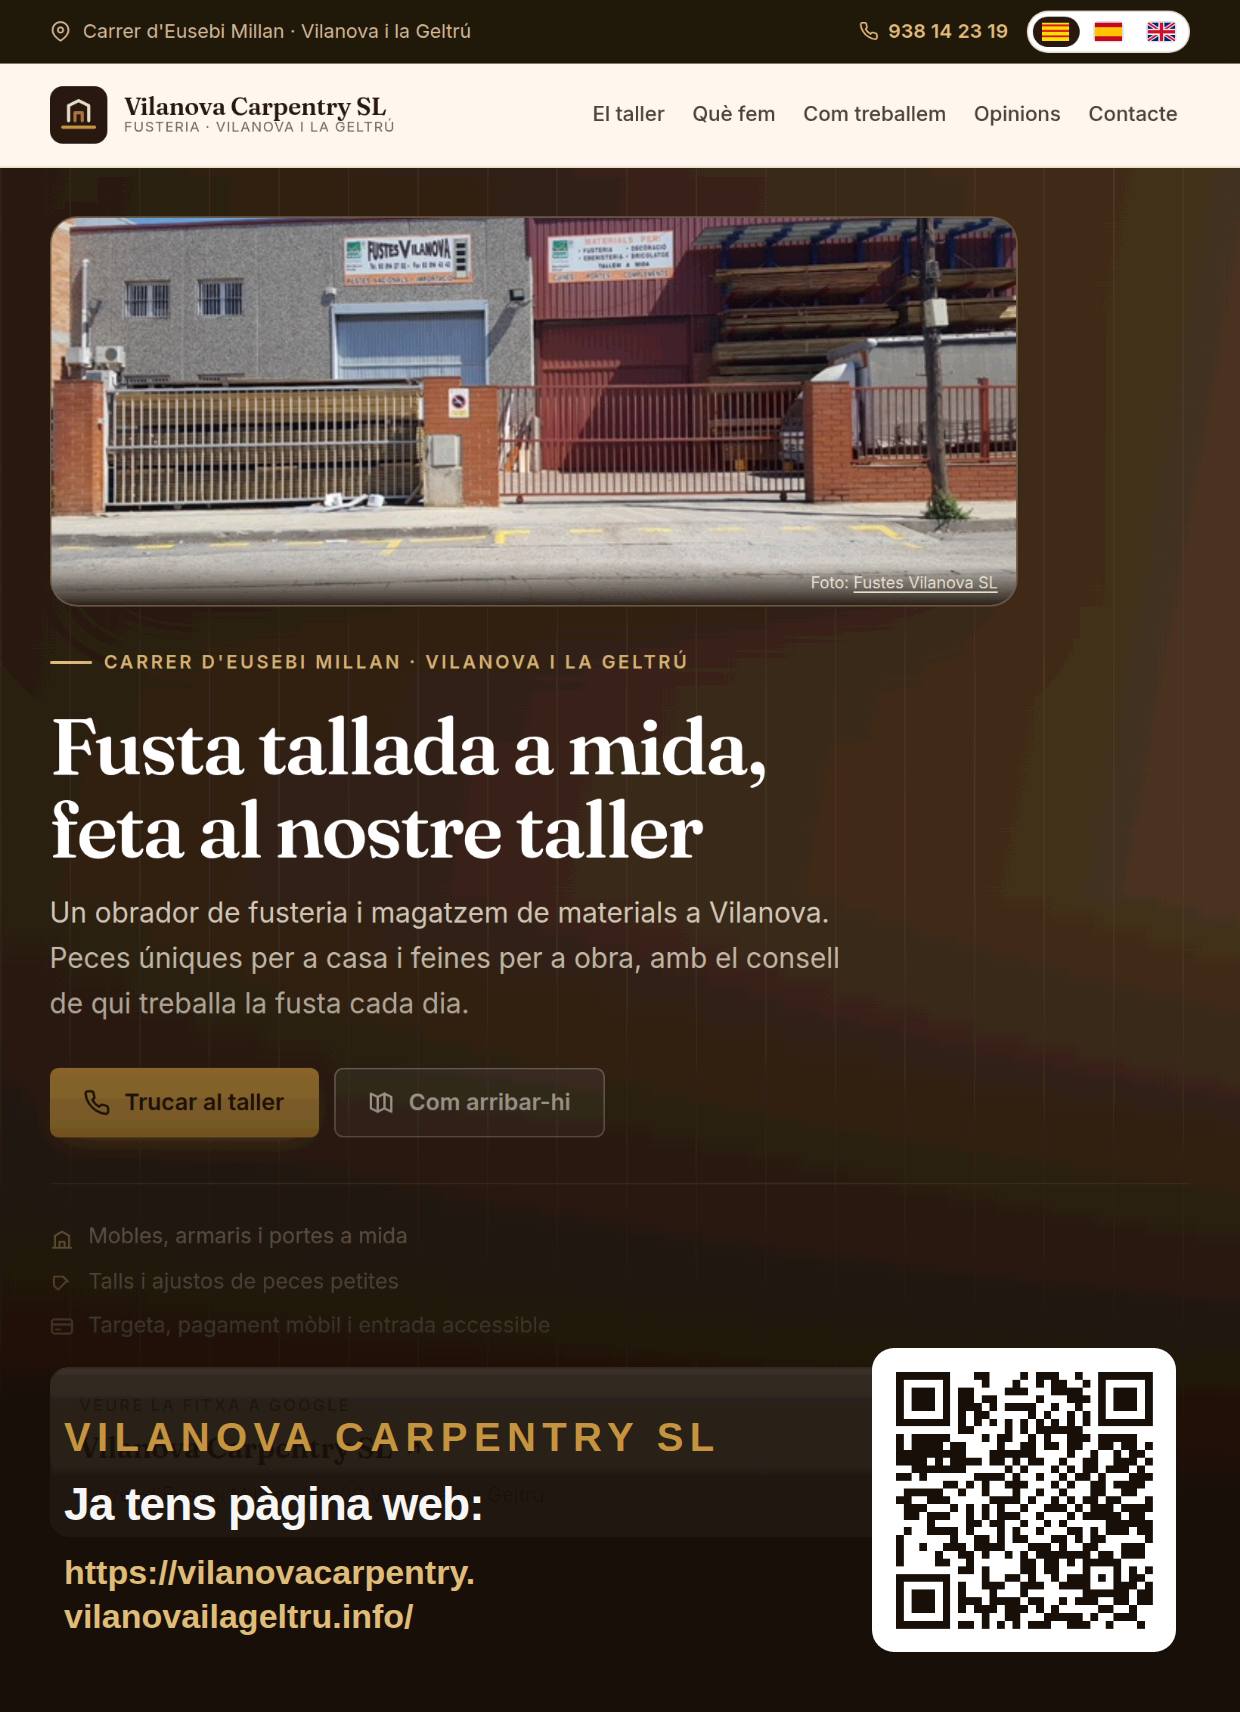
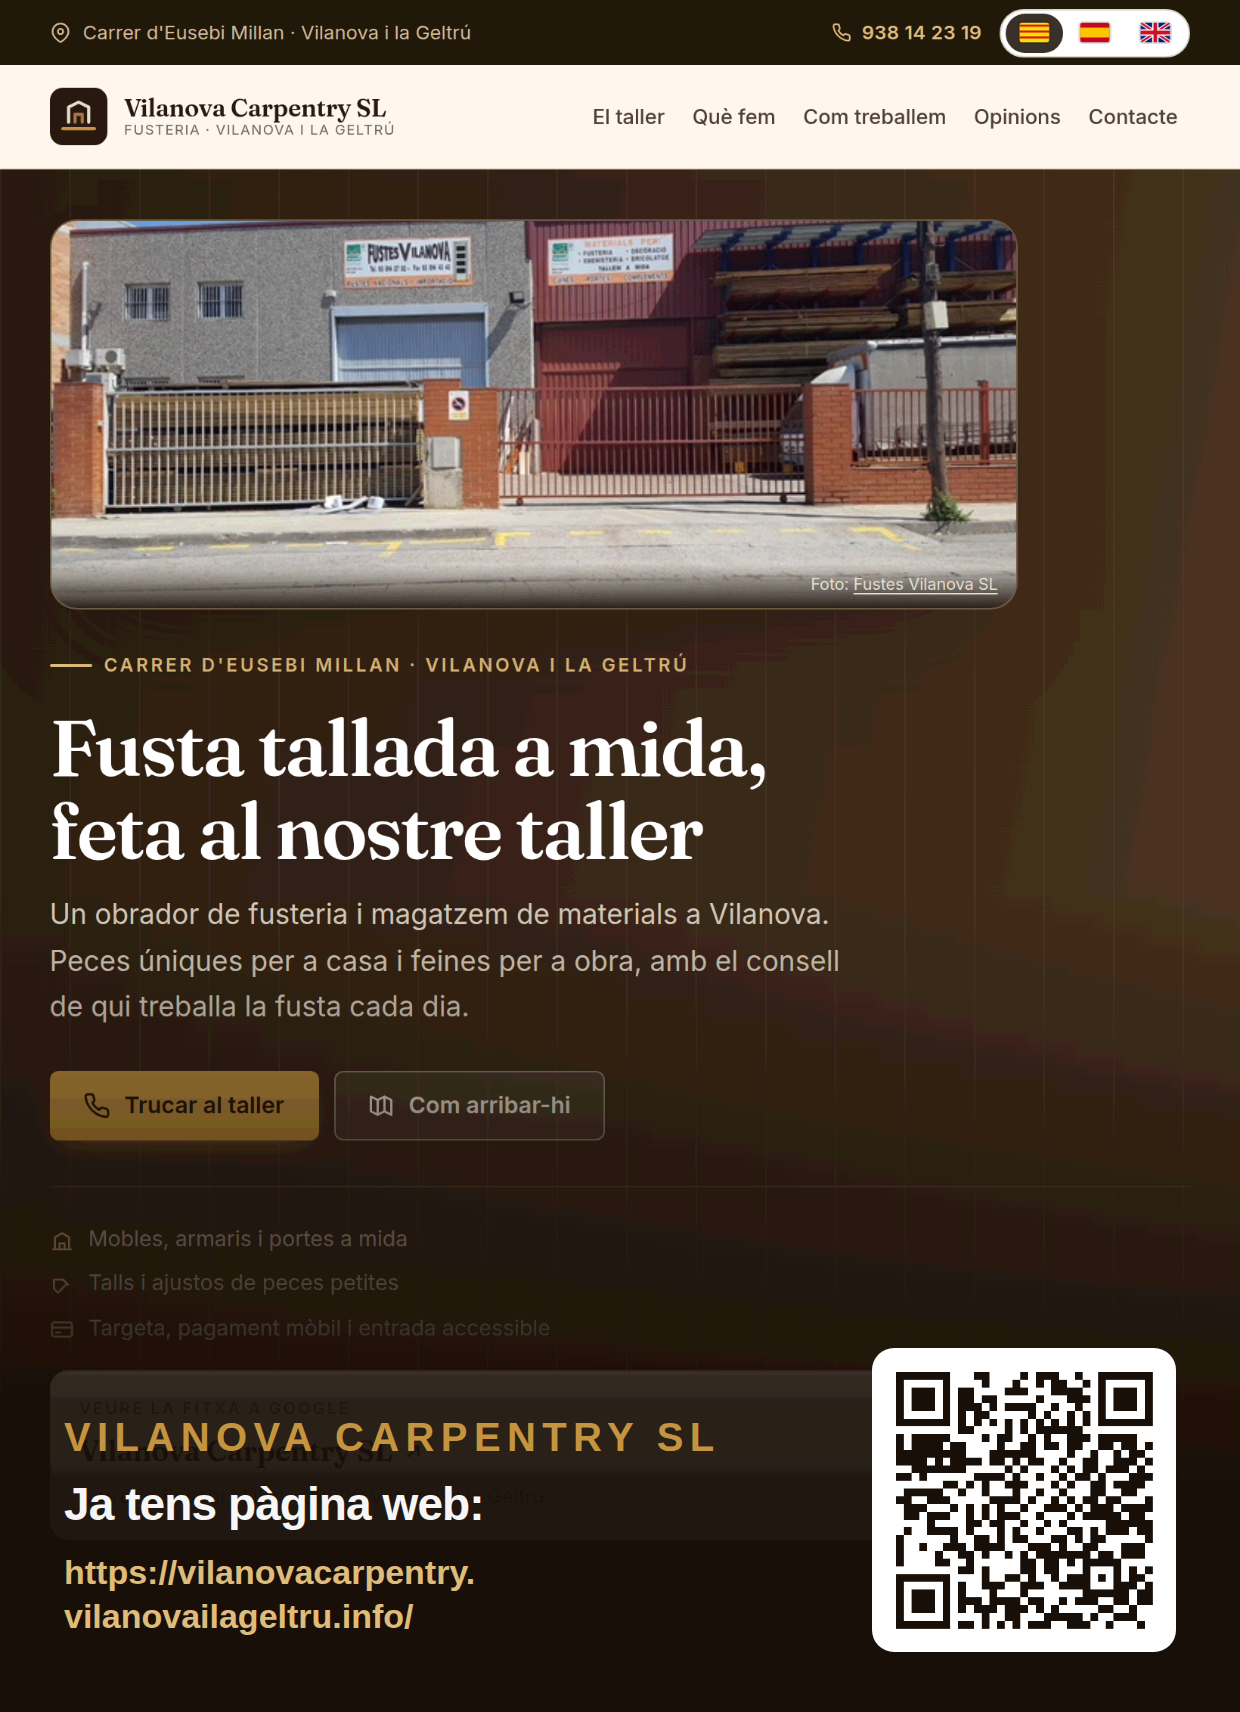
One canonical language toolbar and README across the fleet

diff --git a/assets/css/styles.css b/assets/css/styles.css
@@ -327,41 +327,6 @@ ul, ol { margin: 0; padding: 0; list-style: none; }
 .nav-toggle:hover { background: var(--paper-200); }
 
 /* ---------- language switch ---------- */
-.langs {
-  display: flex;
-  align-items: center;
-  gap: .2rem;
-  padding: .18rem;
-  border: 1px solid rgba(211, 186, 149, .5);
-  border-radius: 999px;
-  background: #fff;
-}
-.langs__link {
-  display: inline-flex;
-  align-items: center;
-  gap: .35rem;
-  padding: .28rem .5rem;
-  border-radius: 999px;
-  text-decoration: none;
-  font-size: .76rem;
-  font-weight: 600;
-  color: var(--ink-soft);
-  line-height: 1;
-}
-.langs__link:hover { background: var(--paper-200); color: var(--wood-900); }
-.langs__link[aria-current="true"] {
-  background: var(--wood-900);
-  color: #fff;
-}
-.langs__flag {
-  width: 18px;
-  height: 12px;
-  border-radius: 2px;
-  flex: none;
-  box-shadow: 0 0 0 1px rgba(33, 21, 12, .15);
-  display: block;
-}
-.langs__code { text-transform: uppercase; letter-spacing: .04em; }
 
 /* ---------- buttons ---------- */
 .btn {
@@ -1233,4 +1198,90 @@ ul, ol { margin: 0; padding: 0; list-style: none; }
   .reviews__all, .footer__legal { display: none !important; }
   .hero, .section--timber, .footer { background: #fff !important; color: #000 !important; }
   .reveal { opacity: 1 !important; transform: none !important; }
+}
+
+/* ==========================================================================
+   Language switch — the one canonical toolbar used by every site.
+   Change only the four custom properties at the top; never re-implement it.
+
+   Why it is written this way:
+   - a fixed 20x13 box with overflow:hidden, so a flag can never bleed out of
+     its pill (the inner SVG has no width/height of its own);
+   - the code label is always present, which keeps every pill the same width and
+     stops the narrow flags-only variant from looking misaligned;
+   - the active pill uses its own background, never a border, so no 1px seam
+     appears between adjacent pills;
+   - height is fixed, so the toolbar aligns with the phone button beside it.
+   ========================================================================== */
+
+.langs {
+  --langs-bg: #ffffff;
+  --langs-border: #dcd3c4;
+  --langs-ink: #4a423a;
+  --langs-active-bg: #3b3128;
+  --langs-active-ink: #ffffff;
+
+  display: inline-flex;
+  align-items: center;
+  gap: 2px;
+  height: 32px;
+  padding: 0 3px;
+  border: 1px solid var(--langs-border);
+  border-radius: 999px;
+  background: var(--langs-bg);
+  box-sizing: border-box;
+}
+
+.langs__link {
+  display: inline-flex;
+  align-items: center;
+  justify-content: center;
+  gap: 6px;
+  height: 26px;
+  padding: 0 9px;
+  border-radius: 999px;
+  text-decoration: none;
+  line-height: 1;
+  color: var(--langs-ink);
+  /* A hairline of the same colour as the background prevents the sub-pixel
+     seam some browsers draw between adjacent rounded pills. */
+  transition: background-color .15s ease, color .15s ease;
+}
+.langs__link:hover { background: rgba(0, 0, 0, .06); }
+.langs__link[aria-current="true"] {
+  background: var(--langs-active-bg);
+  color: var(--langs-active-ink);
+}
+.langs__link[aria-current="true"]:hover { background: var(--langs-active-bg); }
+
+/* The flag box is a hard size with clipping: an SVG with only a viewBox renders
+   at its intrinsic size and would otherwise overflow the pill. */
+.langs__flag {
+  display: block;
+  flex: none;
+  width: 20px;
+  height: 13px;
+  border-radius: 2px;
+  overflow: hidden;
+  box-shadow: 0 0 0 1px rgba(0, 0, 0, .12);
+}
+.langs__flag svg {
+  display: block;
+  width: 20px;
+  height: 13px;
+}
+
+.langs__code {
+  font-size: .72rem;
+  font-weight: 600;
+  letter-spacing: .05em;
+  text-transform: uppercase;
+}
+
+/* On narrow screens the code alone is not enough to identify a language for a
+   screen reader, but the visible pill can drop to flag + code compactly. */
+@media (max-width: 420px) {
+  .langs { height: 30px; }
+  .langs__link { height: 24px; padding: 0 7px; gap: 5px; }
+  .langs__code { font-size: .68rem; }
 }

diff --git a/README.md b/README.md
@@ -1,70 +1,83 @@
 # Vilanova Carpentry SL — website
 
-Static, trilingual site for a joinery workshop and timber merchant in Vilanova i la Geltrú.
-Plain HTML, one stylesheet, one small progressive-enhancement script. No framework, no build
-runtime: the build step renders the three language pages ahead of time.
+Static site for **Vilanova Carpentry SL**, a joinery workshop at Carrer d'Eusebi Millan, Vilanova i la Geltrú.
 
-- Public URL: <https://vilanovacarpentry.vilanovailageltru.info/>
-- Languages: Catalan (default, `/`), Spanish (`/es/`), English (`/en/`)
+Three languages, server-rendered HTML per locale, plain CSS and one small
+progressive-enhancement script. No framework, no runtime dependencies.
+
+## Live site
+
+- **Catalan (default):** <https://vilanovacarpentry.vilanovailageltru.info/>
+- **Spanish:** <https://vilanovacarpentry.vilanovailageltru.info/es/>
+- **English:** <https://vilanovacarpentry.vilanovailageltru.info/en/>
+
+## Page structure
+
+Hero led by a photo of finished work, then the workshop itself, the work it makes
+(furniture, fitted wardrobes, doors, kitchens, carpentry for builders, repairs), a job in four
+steps (measure, quote, make, fit), the timbers and finishes used, reviews, and contact with the
+phone as the primary action.
+
+## Repo layout
+
+```
+index.html                 Catalan (default locale)
+es/index.html              Spanish
+en/index.html              English
+ca/index.html              redirect to / (the default locale used to live here)
+src/template.html          the single template the build renders
+src/data.json              business data (address, phone, coordinates, rating)
+src/locales.json           locale list, which one is default, hreflang codes
+src/i18n/{ca,es,en}.json   all copy, per locale
+scripts/build.mjs          renders the locale pages + sitemap, robots, manifest
+scripts/assets.mjs         app icons and the Open Graph image
+scripts/card.mjs           handover card, 10.5 x 14.5 cm @ 300 dpi
+scripts/verify.mjs         headless checks against the built output
+assets/css/styles.css      all styles, responsive from 320 px up
+assets/js/main.js          navigation, reveal, cookie consent, lazy map
+assets/fonts/              self-hosted Fraunces and Inter (woff2 subsets)
+assets/img/                mark, icons, hero photo, OG image
+assets/photos/handover.png handover card with a QR to the live site
+.github/workflows/         deploy to S3 on push to main
+```
 
 ## Build
 
+Requires Node 20+ and `puppeteer` for the asset scripts.
+
 ```bash
-node scripts/build.mjs      # src/template.html + src/i18n/*.json -> index.html, es/, en/
-node scripts/assets.mjs     # favicon, PWA icons, og-image.jpg (needs assets/fonts/)
-node scripts/verify.mjs     # headless checks: SEO, a11y, layout, consent, responsive
-node scripts/card.mjs       # assets/photos/handover.png (10.5 x 14.5 cm @ 300 dpi, with QR)
-node scripts/optimize-card.mjs  # compacts handover.png under the 700 kB budget
+node scripts/build.mjs     # render the locale pages
+node scripts/assets.mjs    # regenerate icons and og-image.jpg
+node scripts/card.mjs      # regenerate the handover card
+node scripts/verify.mjs    # headless verification of the built output
 ```
 
-`node_modules` is a symlink to the workspace install (puppeteer, qrcode, pngjs); it is ignored
-by git.
+`build.mjs` fails on an unresolved template placeholder, an empty `href`/`src`, invalid
+JSON-LD, or a feature icon that has no entry in `scripts/icons.json`.
 
-## Structure
+## Editing content
 
-```
-src/
-  data.json          business facts: address, phone, coordinates, rating, reviews, photo credit
-  locales.json       locale list: code, name, output dir, hreflang
-  template.html      single template, rendered once per locale
-  i18n/<code>.json   all copy: meta, hero, sections, reviews, contact, cookies
-  hero-source.jpg    workshop photo, copied into assets/img/ at build time
-assets/
-  css/styles.css     design tokens, layout, responsive rules
-  js/main.js         nav toggle, scroll reveal, cookie banner, deferred map
-  fonts/             self-hosted Fraunces + Inter (woff2, latin + latin-ext)
-  img/               generated icons and og-image
-  photos/handover.png
-scripts/             build, asset generation, verification, handover card
-```
+Text lives in `src/i18n/*.json`; shared business facts live in `src/data.json`. Change those,
+run `node scripts/build.mjs`, commit the regenerated HTML. Do not hand-edit the generated
+`index.html` files — they are overwritten.
 
-## Content rules applied
+## Deploy
 
-- Every absolute URL (canonical, `og:url`, hreflang, sitemap, OG image, QR) derives from
-  `slug` + `siteDomain` in `src/data.json`; no host is hardcoded in the template.
-- Opening hours and price level are deliberately absent: they date quickly.
-- The rating is shown as `4.4 / 5` with the review count of 225. There is no oversized star
-  badge, because the rating is not high enough to carry a hero claim.
-- Testimonials are the two positive Google reviews, rewritten into each language rather than
-  pasted in the source language.
-- The phone number is a landline, so the site offers `tel:` links only — no WhatsApp button.
-- The business has no website, so the "listing" links point at its Google Maps entry.
-- The workshop photo is credited to its author in the hero, as the source requires.
+Pushing to `main` runs `.github/workflows/deploy-aws.yml`: it builds the site, authenticates
+to AWS with OIDC (no stored keys) and uploads to
+`s3://dr-static-websites/vilanovailageltru.info/vilanovacarpentry/`. The subdomain is served from the bucket's CDN, so a
+deploy is live within a few minutes.
 
-## Privacy
+## Technical notes
 
-Google Analytics 4 loads only after the visitor accepts. The banner calls
-`window.__analyticsConsent(true|false)`, which is the single place that writes the consent key
-(`cookie-consent-v1`); the embedded Google map uses the same decision and is injected as an
-iframe only after acceptance. With storage denied by default, no cookies are written before
-consent.
-
-## Accessibility and SEO
-
-- One `h1` per page, ordered headings, skip link, visible focus rings, labelled language
-  switcher and nav toggle, `aria-expanded` state, Escape closes the mobile nav.
-- Colour pairs meet WCAG AA for body and small text on their backgrounds.
-- `LocalBusiness` JSON-LD (`HomeAndConstructionBusiness`) with address, geo, phone and rating.
-- `hreflang` alternates for all three locales plus `x-default`; per-locale canonical;
-  `sitemap.xml`, `robots.txt`, web manifest.
-- All assets use relative paths so the site also works from a subdirectory prefix.
+- **SEO** — per-locale `<title>`, description, canonical, reciprocal `hreflang` including
+  `x-default`, Open Graph and Twitter cards, `sitemap.xml` with alternates, `robots.txt`, and
+  `LocalBusiness` structured data. Every absolute URL derives from the site's own domain.
+- **Accessibility** — one `h1` per page, skip link, landmark elements, visible focus rings,
+  body text at or above 4.5:1 contrast, `aria-expanded` on the navigation toggle, Escape
+  closes the drawer, and content stays readable with JavaScript disabled.
+- **Performance** — self-hosted woff2 subsets preloaded, one CSS file, one deferred JS file,
+  no third-party requests until the visitor opts in.
+- **Privacy** — the cookie notice offers accept and reject. Nothing is fetched from Google —
+  analytics script or map iframe — until the visitor accepts; rejecting loads neither and is
+  remembered.
